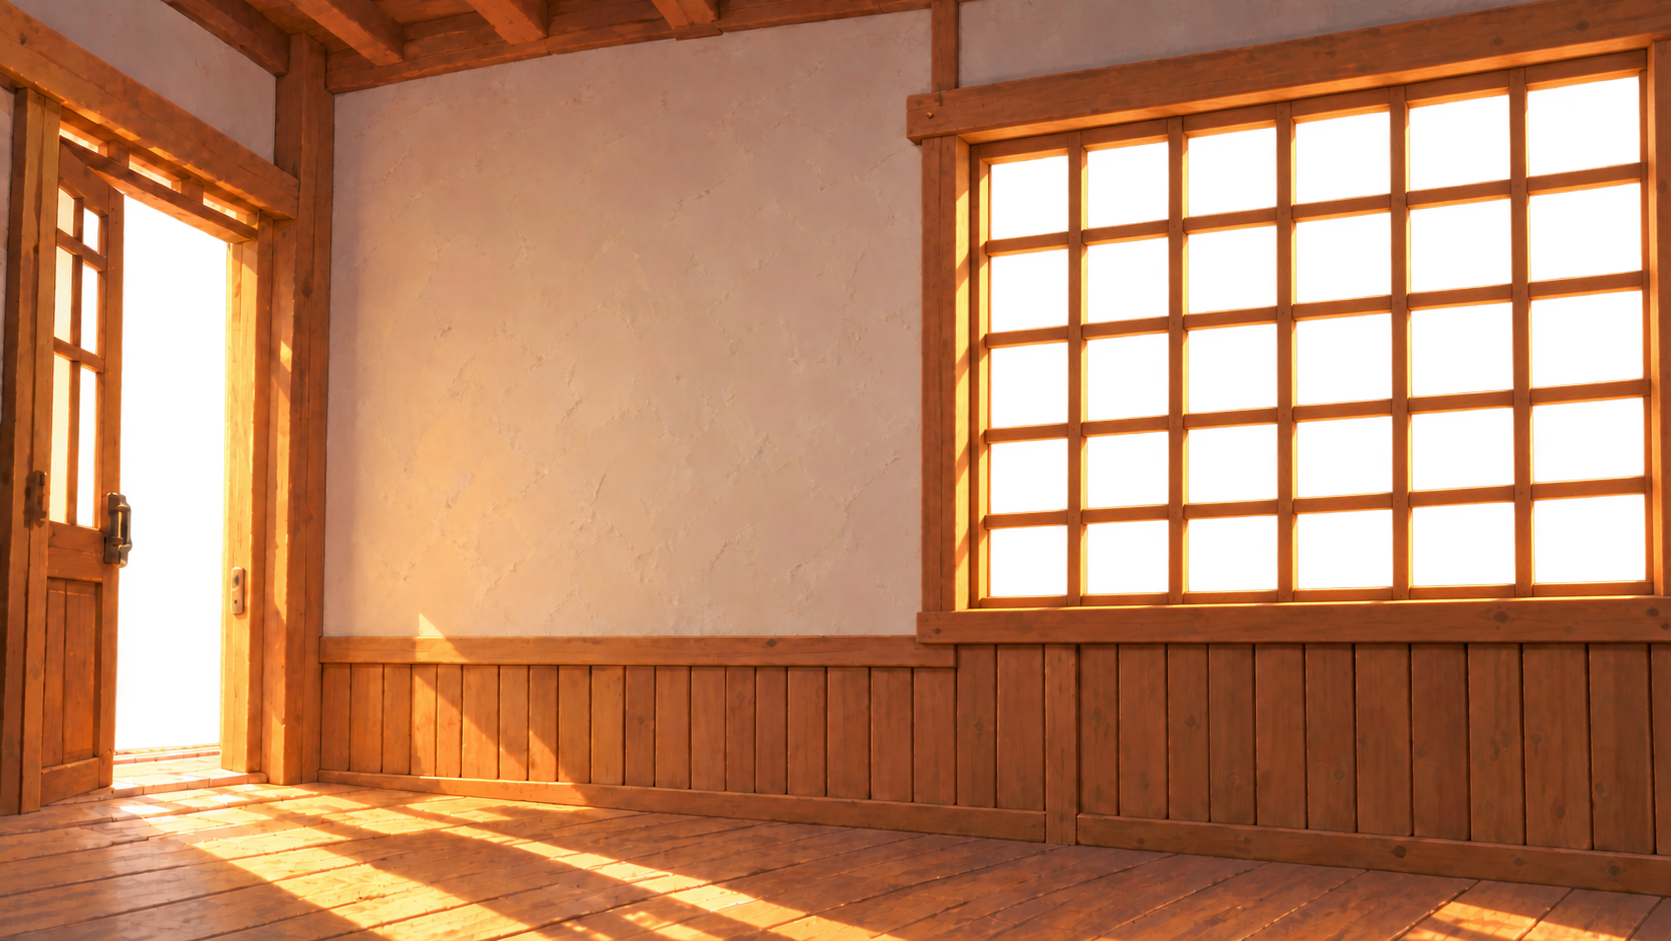
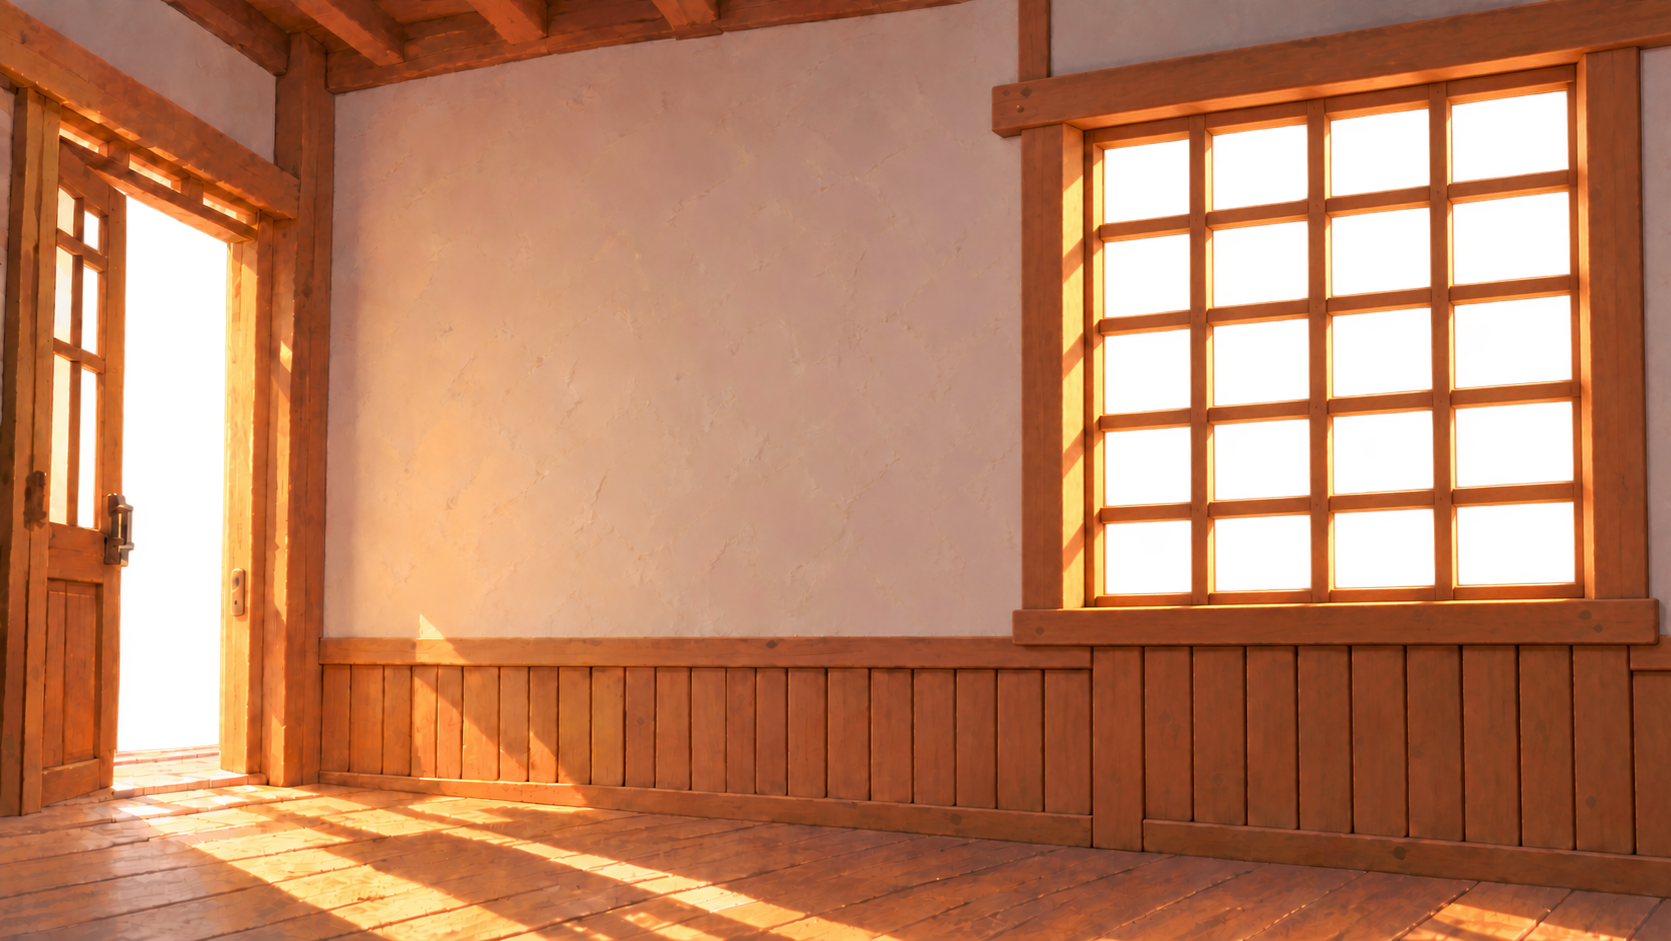
fix(homespace): refine scene input and shell
Preserve native control keys and enable horizontal touch panning.

Bring the temporary room shell closer to the reference while keeping its review status explicit.

diff --git a/Frontend/src/app/features/homespace/homespace-master-scene.component.spec.ts b/Frontend/src/app/features/homespace/homespace-master-scene.component.spec.ts
@@ -110,6 +110,17 @@ describe('HomespaceMasterSceneComponent', () => {
     expect(viewport.scrollLeft).toBe(320);
     expect(right.defaultPrevented).toBe(true);
 
+    const input = document.createElement('input');
+    viewport.querySelector('.projective-surface')?.append(input);
+    const inputArrow = new KeyboardEvent('keydown', {
+      key: 'ArrowRight',
+      bubbles: true,
+      cancelable: true,
+    });
+    input.dispatchEvent(inputArrow);
+    expect(viewport.scrollLeft).toBe(320);
+    expect(inputArrow.defaultPrevented).toBe(false);
+
     const down = new KeyboardEvent('keydown', {
       key: 'ArrowDown',
       bubbles: true,

diff --git a/Frontend/src/app/features/homespace/homespace-master-scene.component.ts b/Frontend/src/app/features/homespace/homespace-master-scene.component.ts
@@ -81,6 +81,7 @@ export class HomespaceMasterSceneComponent {
   protected panWithKeyboard(event: KeyboardEvent): void {
     if (
       (event.key !== 'ArrowLeft' && event.key !== 'ArrowRight') ||
+      this.isInteractiveTarget(event.target) ||
       event.altKey ||
       event.ctrlKey ||
       event.metaKey ||

diff --git a/Frontend/src/app/features/projects/project-screen/project-screen.component.scss b/Frontend/src/app/features/projects/project-screen/project-screen.component.scss
@@ -11,7 +11,6 @@
   font-family: var(--font-ui);
   position: relative;
   isolation: isolate;
-  touch-action: pan-y;
 }
 .outer-topbar,
 .project-page-content,

diff --git a/Docs/design/homepage-renovation/README.md b/Docs/design/homepage-renovation/README.md
@@ -2,8 +2,9 @@
 
 **Status:** the existing Project Screen is integrated with a layered Minecraft
 Homespace scene. Minecraft and Dark share geometry and current temporary plates;
-Dark applies cool-night lighting. The plates do not yet match the reference
-closely enough for visual acceptance. Light and Raccoon scenes remain
+Dark applies cool-night lighting. Browser checks verify the scene geometry,
+projection, and responsive behavior; generated plates remain temporary and are
+not presented as final visual artwork. Light and Raccoon scenes remain
 unimplemented.
 
 ## Current screen
@@ -28,12 +29,15 @@ animation. Project Screen controls and workflows remain in their existing page
 layer. A CSS projective surface contract maps future HTML content to a scene
 quadrilateral, including transformed pointer hit testing. The scene scales
 uniformly to viewport height and can pan horizontally when wider than the
-viewport; vertical scene panning is disabled. Dragging and the arrow keys pan
-horizontally while Project Screen content keeps its own page scrolling. Narrow
+viewport; vertical scene panning is disabled. Dragging and ArrowLeft/ArrowRight
+pan the scene when its region is targeted; horizontal touch swipes pan the
+scene, and projected interactive controls retain their native arrow-key
+behavior. Project Screen content keeps its own vertical scrolling. Narrow
 layouts use denser spacing so the create actions remain reachable without
 browser fullscreen. Current generated plates live under
 `Frontend/public/assets/homespace/temporary/` and remain temporary pending
-reference-fidelity work.
+visual-art review. Browser verification covers scene alignment and interaction;
+it does not claim final reference-art fidelity.
 
 Minecraft (`craft`) and Dark share one scene geometry and current artwork; Dark
 applies cool-night lighting. Light and Raccoon retain their existing page

diff --git a/Docs/design/application-ui-renovation/CURRENT-UI-CONTRACT.md b/Docs/design/application-ui-renovation/CURRENT-UI-CONTRACT.md
@@ -95,12 +95,15 @@ page backgrounds. The scene uses one 1672 × 941 artboard, transparent
 door/window openings, a separate outside panorama, and independent object,
 lighting, and projected-UI layers. It scales uniformly to viewport height and
 allows horizontal panning when the scene is wider than the viewport. Vertical
-scene panning is disabled. Dragging and arrow keys pan only the overflowing
-scene horizontally without moving Project Screen controls. Narrow layouts keep
-the existing page scrolling and compact spacing so create actions remain
+scene panning is disabled. Dragging pans the overflowing scene; ArrowLeft and
+ArrowRight pan it only when the scene region is targeted, and horizontal touch
+swipes pan the scene. Projected interactive controls retain their native
+arrow-key behavior. Narrow layouts keep the existing page scrolling and compact
+spacing so create actions remain
 reachable without browser fullscreen. Current generated plates are stored under
 `Frontend/public/assets/homespace/temporary/`; they are placeholders under
-visual review and do not yet meet the source-reference fidelity requirement.
+visual review. Browser verification covers scene geometry and interaction;
+the generated artwork is not claimed as final or as exact source-reference art.
 
 ## Verified limits
 
